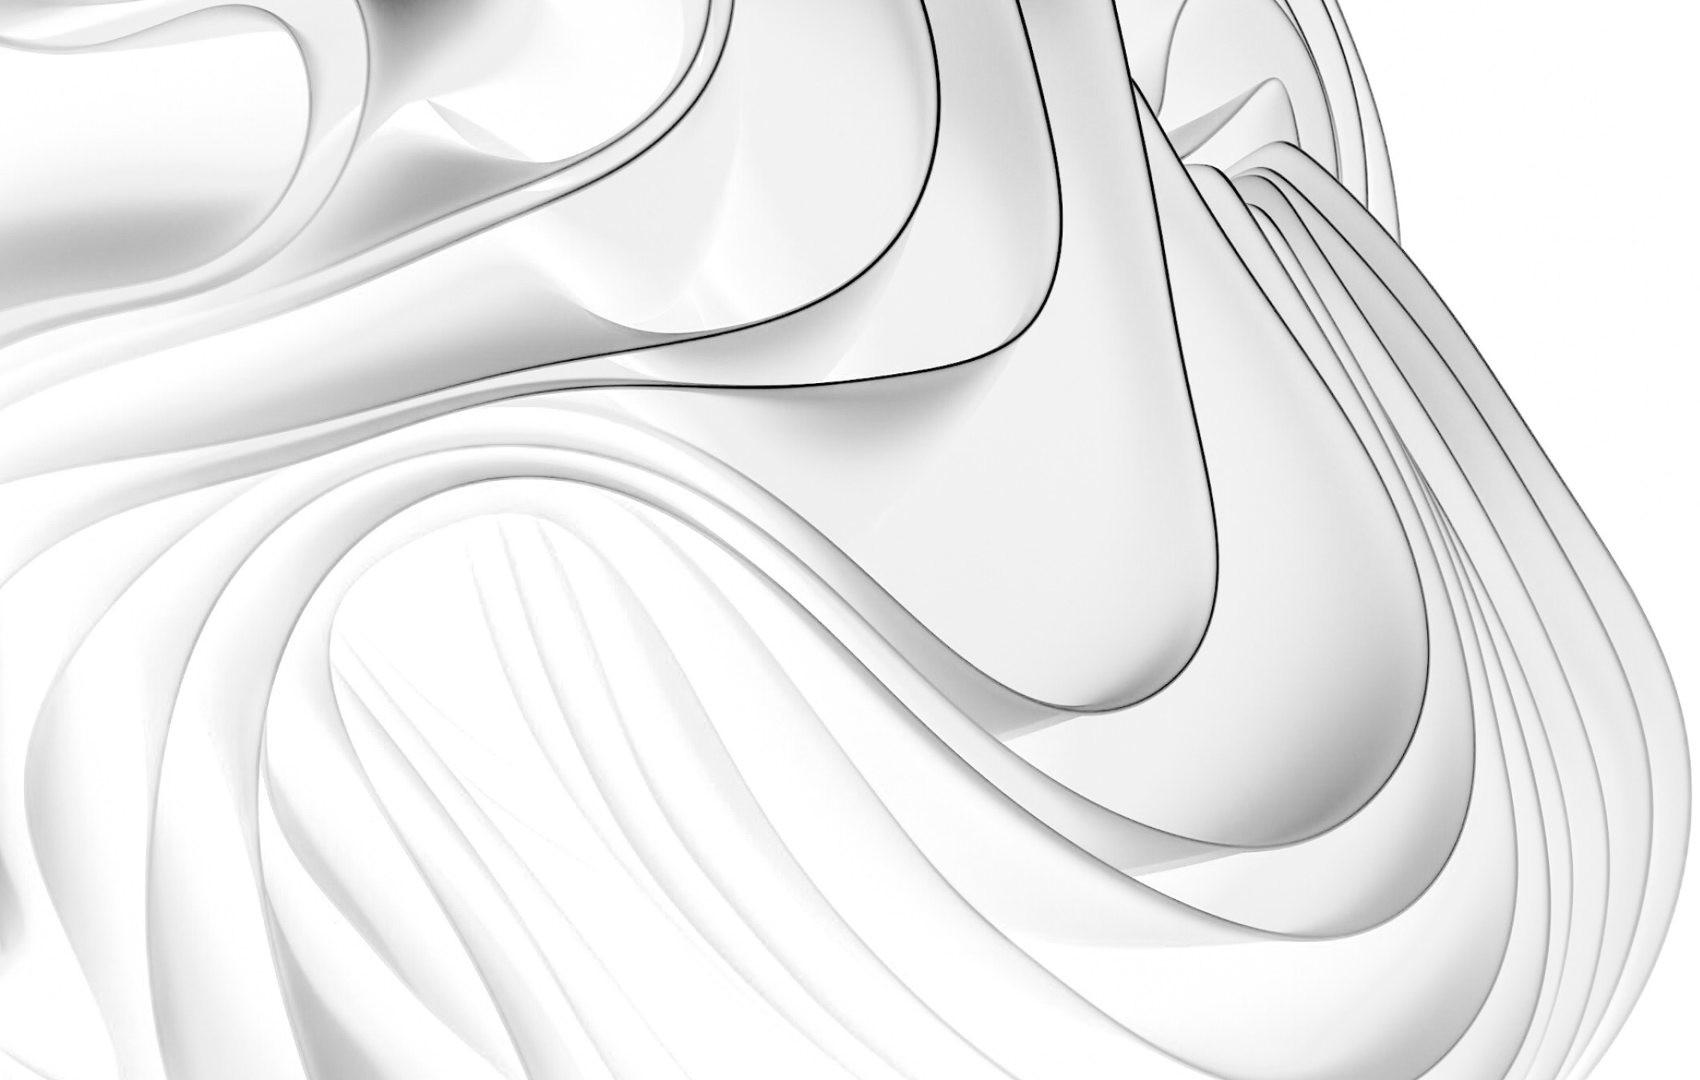
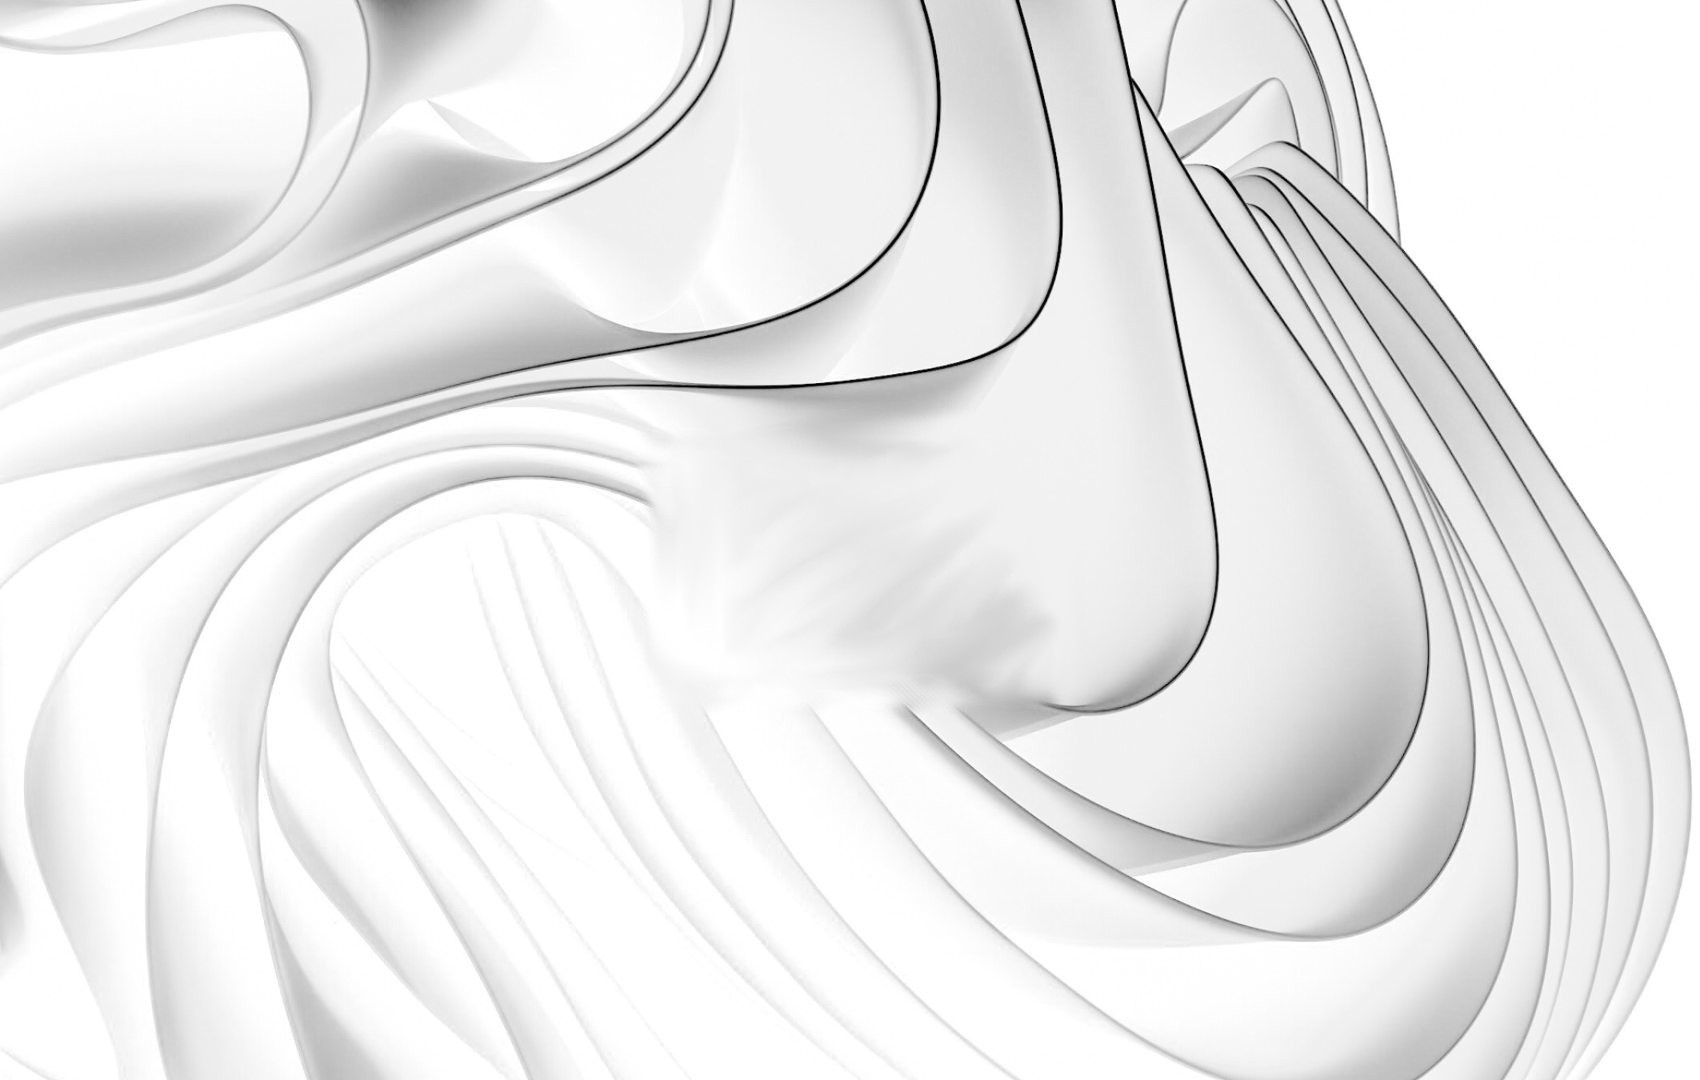
New Z

Changed region(s): [[0.3741, 0.4278, 0.6235, 0.6722]]

diff --git a/index.html b/index.html
@@ -15,10 +15,7 @@
 <body>
 
 <div id="profile">
-  <img src="img/z.png" height="32">
-  <div>
-    <RFV><R>R</R>iaan <F>F</F>rancois <V>V</V>enter</RFV>
-  </div>
+  <div><RFV><R>R</R>iaan <F>F</F>rancois <V>V</V>enter</RFV></div>
   <div>math, computation, logic, linguistics, philosophy, computers, linux, python, llm, harness, tools, economics, business, organization</div>
   <div>
     <a href="files/0x61DC8F3F.asc" type="application/pgp-keys">
@@ -28,6 +25,7 @@
     </a>
     <img src="img/zonkinuts.png" height="32">
   </div>
+  <div><img class="Z"></div>
 </div>
 </body>
 </html>

diff --git a/style.css b/style.css
@@ -11,7 +11,7 @@ body {
   background-size: cover;
   background-repeat: no-repeat;
   background-position: center;
-  background-image: url('img/ropes2_inv.jpg');
+  background-image: url('img/waves_inv.jpg');
   display: flex;
   justify-content: center;
   align-items: center;
@@ -46,6 +46,11 @@ body {
 a {
   color: inherit;
   text-decoration: none; /* no underline */
+}
+
+.Z {
+  content: url("img/Z_black_full.png");
+  height: 32px;
 }
 
 RFV {
